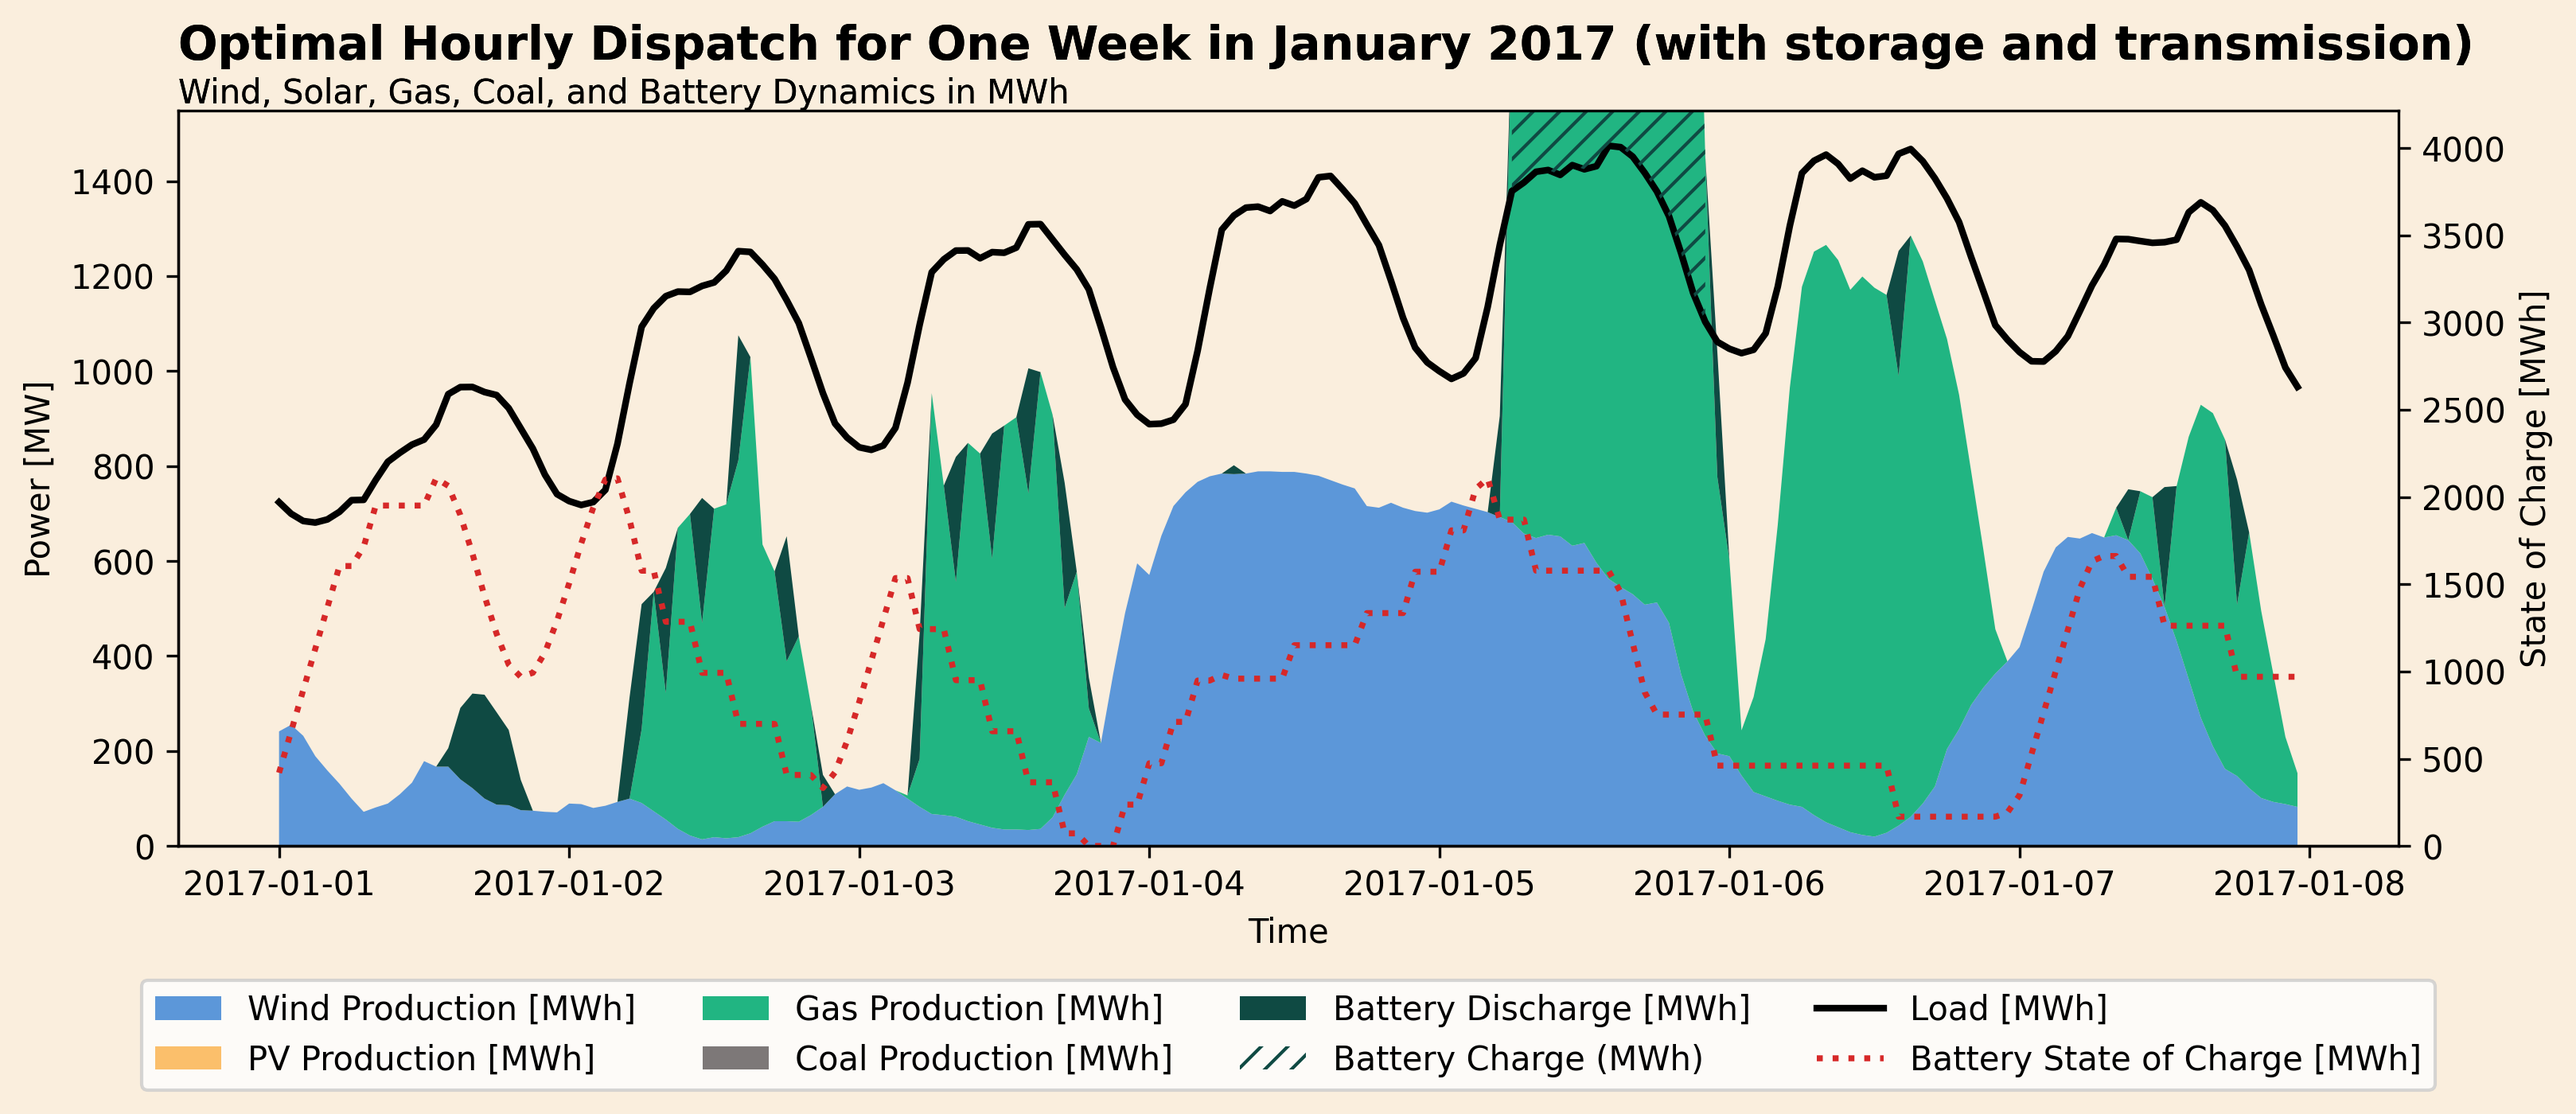
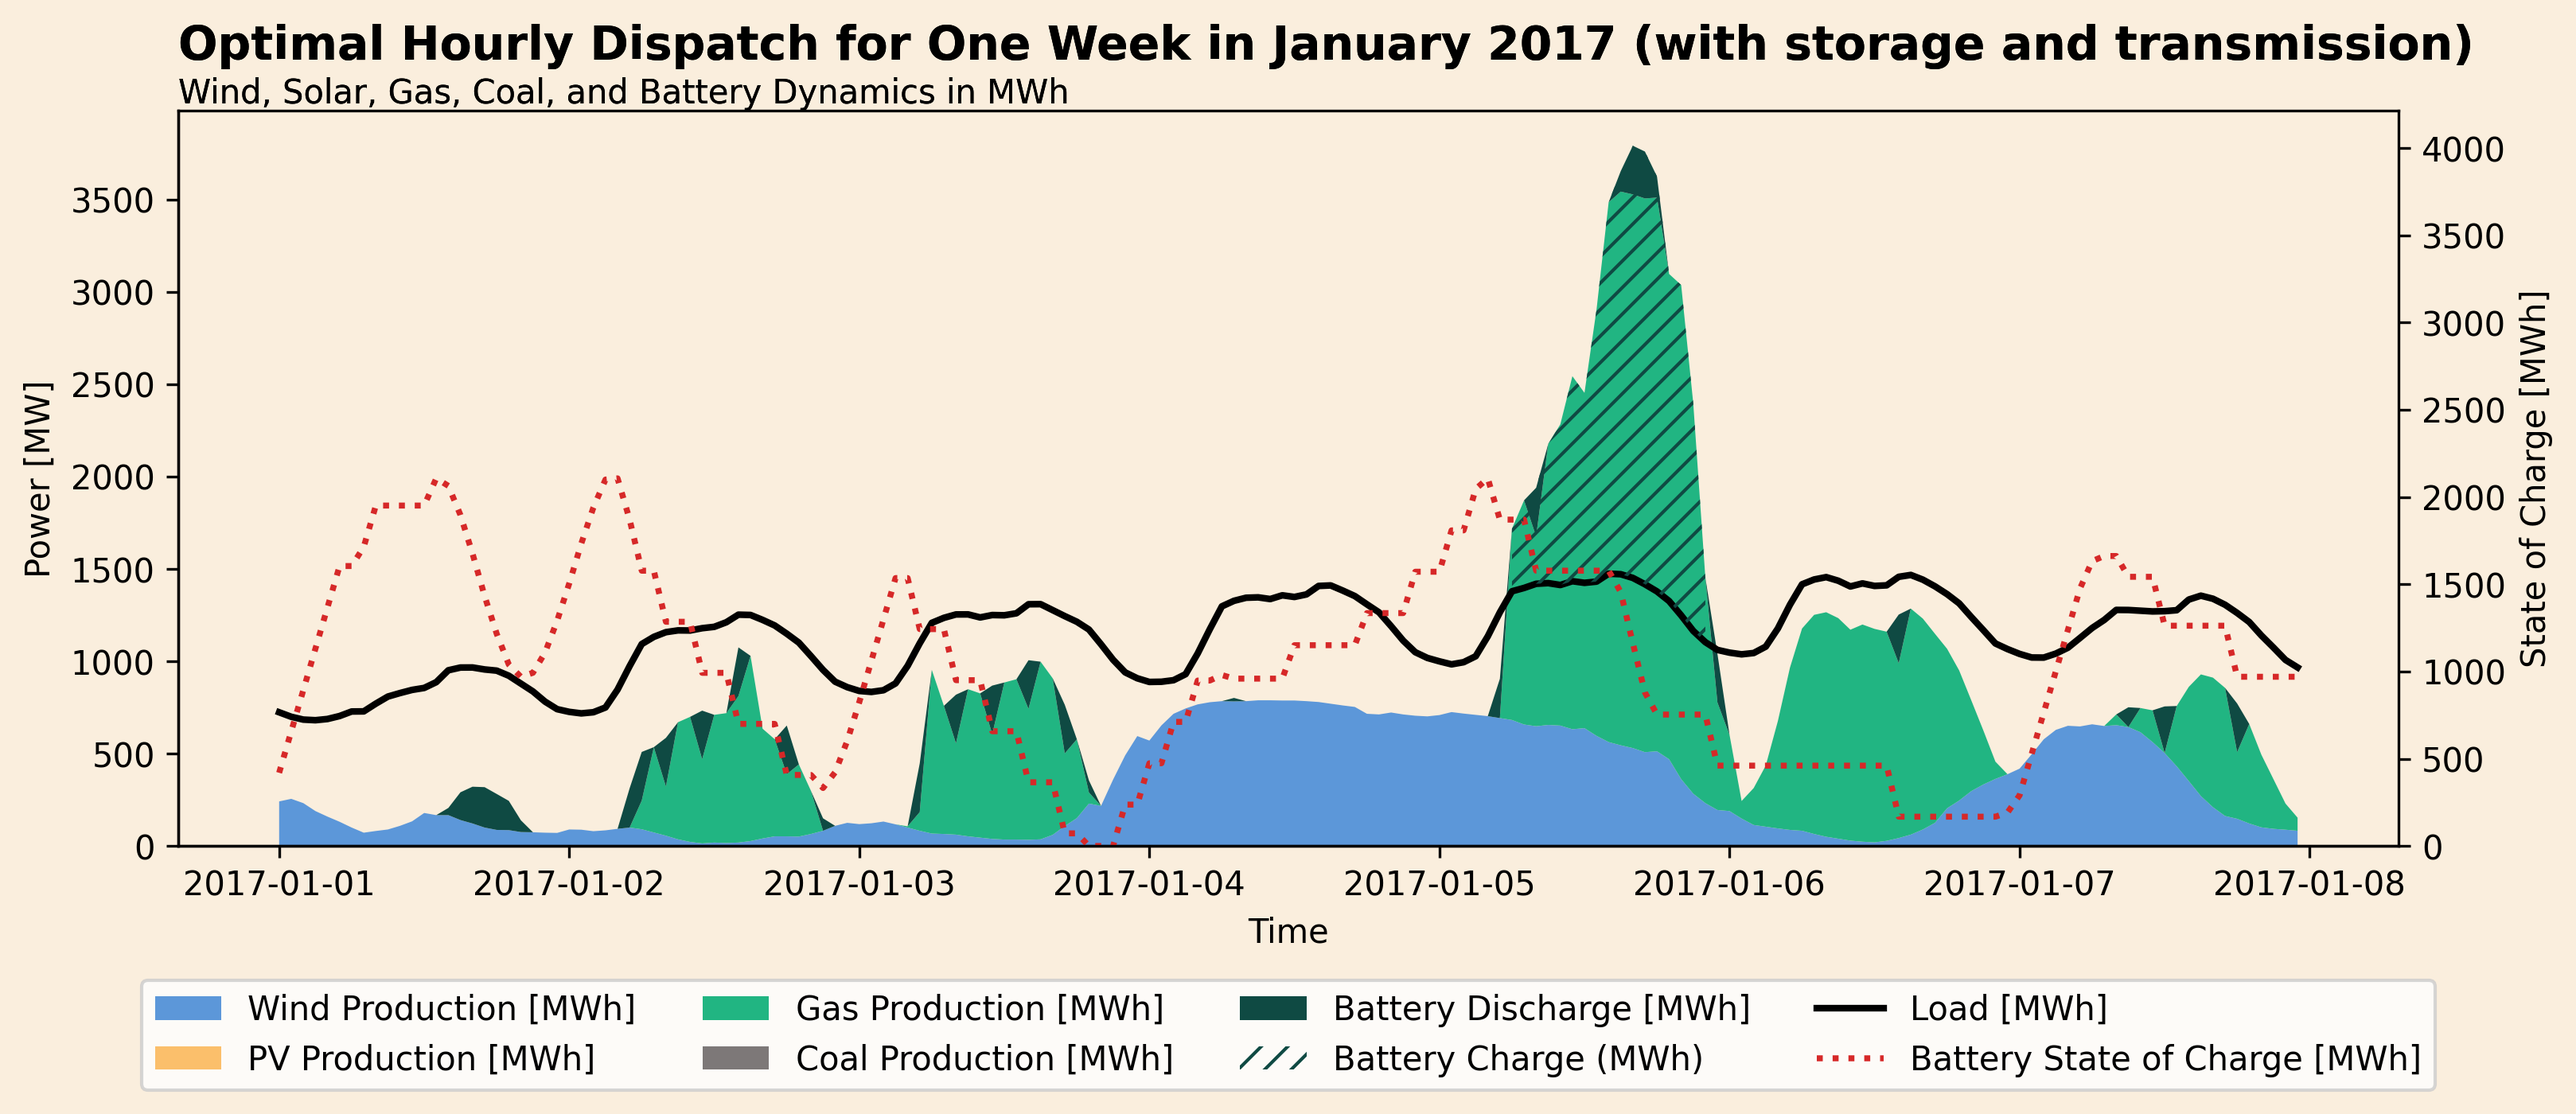
make full plot visible with transmission

diff --git a/main.py b/main.py
@@ -25,6 +25,29 @@ scenarios = [(False, "without storage"),(True, "with storage"),]
 
 scenario_results = []
 
+
+def compute_shared_power_axis_max(dispatch_df, load_series):
+    # Support both single-node names and Estonia-specific names.
+    dispatch_power_columns = [
+        "Wind Generator",
+        "Wind Generator Estonia",
+        "Solar Generator",
+        "Solar Generator Estonia",
+        "OCGT",
+        "OCGT Estonia",
+        "Coal",
+        "Coal Estonia",
+        "Battery Storage Discharge",
+    ]
+
+    power_max_candidates = [float(load_series.max())]
+    available_columns = [col for col in dispatch_power_columns if col in dispatch_df.columns]
+    if available_columns:
+        total_power = dispatch_df[available_columns].sum(axis=1)
+        power_max_candidates.append(float(total_power.max()))
+
+    return max(power_max_candidates) * 1.05
+
 for storage_enabled, scenario_label in scenarios:
     network = Network(load, wind_cf, solar_cf, hours)
     network.build_network(storage=storage_enabled)
@@ -41,16 +64,10 @@ for storage_enabled, scenario_label in scenarios:
         }
     )
 
-power_max_candidates = [float(load["EE"].max())]
-dispatch_power_columns = ["Wind Generator", "Solar Generator", "OCGT", "Coal", "Battery Storage Discharge"]
-
-for result in scenario_results:
-    available_columns = [col for col in dispatch_power_columns if col in result["dispatch"].columns]
-    if available_columns:
-        total_power = result["dispatch"][available_columns].sum(axis=1)
-        power_max_candidates.append(float(total_power.max()))
-
-shared_power_axis_max = max(power_max_candidates) * 1.05
+shared_power_axis_max = max(
+    compute_shared_power_axis_max(result["dispatch"], load["EE"])
+    for result in scenario_results
+)
 
 january_week_mask = (hours >= '2017-01-01') & (hours < '2017-01-08')
 january_week = hours[january_week_mask]
@@ -118,15 +135,7 @@ load_est = load["EE"]
 
 scenario_label = "with storage and transmission"
 
-power_max_candidates = [float(load_est.max())]
-dispatch_power_columns = ["Wind Generator", "Solar Generator", "OCGT", "Coal", "Battery Storage Discharge"]
-
-available_columns = [col for col in dispatch_power_columns if col in dispatch.columns]
-if available_columns:
-    total_power = dispatch[available_columns].sum(axis=1)
-    power_max_candidates.append(float(total_power.max()))
-
-shared_power_axis_max = max(power_max_candidates) * 1.05
+shared_power_axis_max = compute_shared_power_axis_max(dispatch, load_est)
 
 # --- PLOTS ---
 plot_dispatch(
